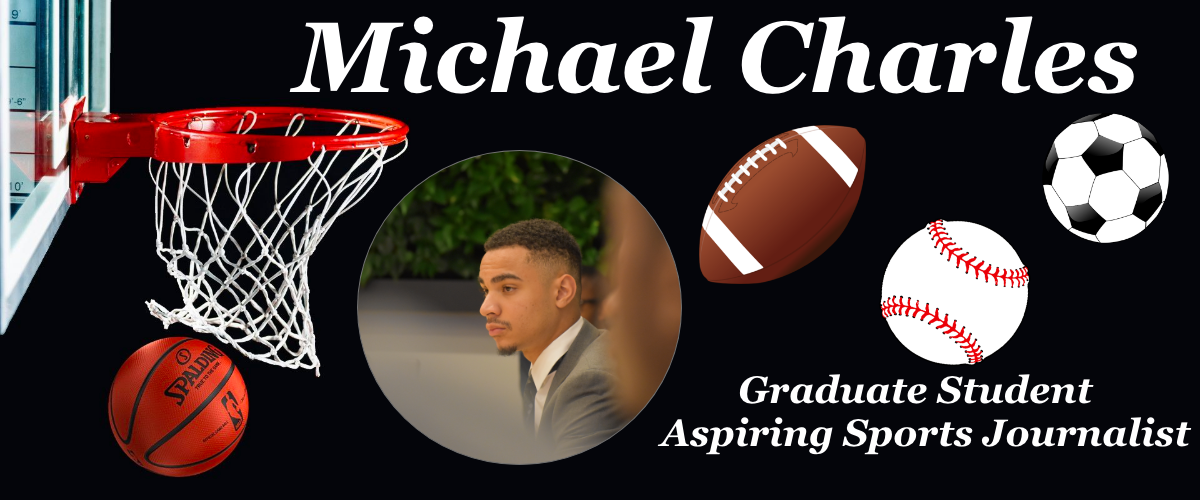
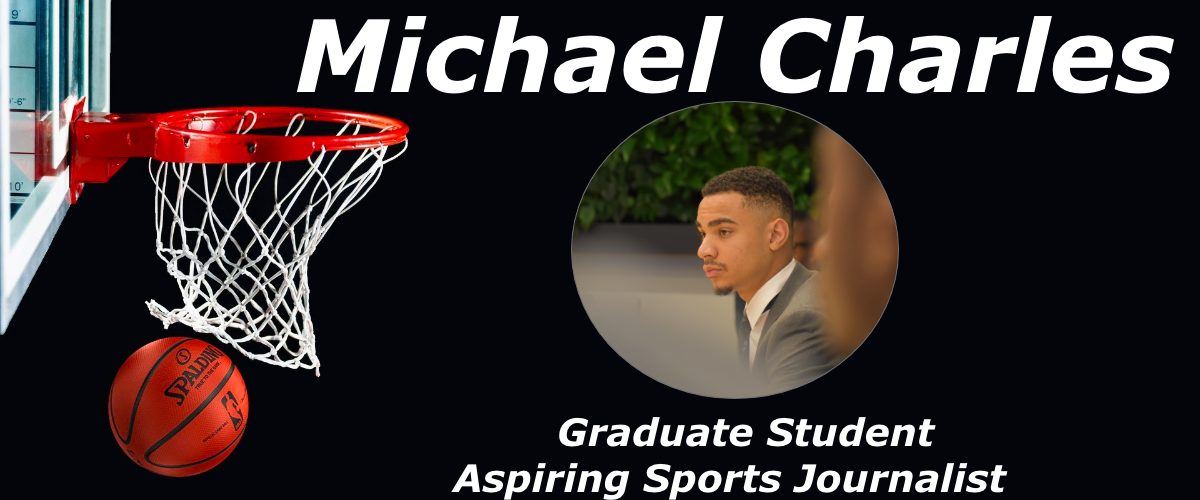
project

diff --git a/resume-project/michael-charles-resume.html b/resume-project/michael-charles-resume.html
@@ -27,7 +27,7 @@
     <!-- Navbar start-->
 <nav class="navbar navbar-expand-lg navbar-light" style="background-color: #DBF9FC">
  <div class="container-fluid">
-   <a class="navbar-brand" href="#">Michael Charles</a>
+   <a class="navbar-brand" href="#about">Michael Charles</a>
    <button class="navbar-toggler" type="button" data-bs-toggle="collapse" data-bs-target="#navbarSupportedContent" aria-controls="navbarSupportedContent" aria-expanded="false" aria-label="Toggle navigation">
      <span class="navbar-toggler-icon"></span>
    </button>
@@ -58,13 +58,13 @@
 
     <!-- buttons-->
     <div id="top"class="row">
-      <div class="col-4">
+      <div class="col-md-4">
         <a href="mailto:mchar317@umd.edu"title="Email"><i class="btn-lg bi bi-envelope"></i></a>
       </div>
-      <div class="col-4">
+      <div class="col-md-4">
         <a href="https://twitter.com/MikeCharles317" class="twitter-follow-button" data-size="large" data-lang="en" data-show-count="false">Follow @MikeCharles317</a><script async src="https://platform.twitter.com/widgets.js" charset="utf-8"></script>
       </div>
-      <div class="col-4">
+      <div class="col-md-4">
         <a href="https://www.linkedin.com/in/michael-charles-b84943151/"title="LinkedIn"><i class="btn-lg bi bi-linkedin"></i></a>
       </div>
     </div>
@@ -76,14 +76,14 @@
 
 
   <div id="about"class="row">
-    <div class="col">
+    <div class="col-md">
             <h1>About Me</h1>
-            <p style="padding-bottom: 70px">I am a graduate student at the Philip Merrill School of Jouranalism at the University of Maryland. I hope to combine my passions for sports and writing into a career in sports media.</p>
+            <p style="padding-bottom: 70px">I am a graduate student at the Philip Merrill School of Jouranalism at the University of Maryland. My goal is to combine my passions for sports and writing into a career in sports media.</p>
 
     </div>
      <!-- Experience -->
      <div id="about"class="row">
-       <div class="col">
+       <div class="col-md">
                <h1><a id="ex">Experience</a></h1>
 
        </div>
@@ -93,35 +93,53 @@
                 <div class="col-md-3">
                         <h2>Writer</h2>
                         <h3>KnicksFanTV</h3>
-                        <h4>January 2021 – Present</h4>
+                        <h4>(January 2021 – Present)</h4>
                         <p style="padding-bottom: 70px">Write articles for a basketball website targeted to New York Knicks fans.</p>
-                          <img src="KFTV.png" alt="KFTV" height="150px" width="150px"><br><br><br>
+
                 </div>
 
 
                 <div class="col-md-3">
                   <h2>Scholar</h2>
                   <h3>Institute for Responsible Citizenship</h3>
-                  <h4>Summer 2019 and 2020</h4>
+                  <h4>(Summer 2019 and 2020)</h4>
                   <p style="padding-bottom: 70px">Attended advanced academic seminars, comprehensive leadership and professional development programs.</p>
-                  <img src="i4rc.jpeg" alt="i4rc" height="150px" width="150px"><br><br><br>
+
                 </div>
                 <div class="col-md-3">
                   <h2>Contest Operations Attendant</h2>
                   <h3>Bates College </h3>
-                  <h4>September 2018 – March 2020</h4>
+                  <h4>(September 2018 – March 2020)</h4>
                   <p style="padding-bottom: 70px">Organized and presented visuals on display board, played music at intervals during games, and handled scoreboard.</p>
-                  <img src="batesa.jpeg" alt="athletics" height="150x" width="200x"><br><br><br>
+
                 </div>
                 <div class="col-md-3">
                   <h2>Intern, Pipeline Team</h2>
                   <h3>Major League Baseball</h3>
-                  <h4>June 2021-August 2021 </h4>
+                  <h4>(June 2021-August 2021) </h4>
                   <p style="padding-bottom: 70px">Updating and managing multimedia, editing video highlights, and producing stories for the MLB Draft.</p>
-                  <img src="mlb.png" alt="mlb" height="150px" width="250px"><br><br><br>
+
                 </div>
 </div>
 <!-- Experience End -->
+<div class="row">
+
+        <div class="col-md-3">
+                  <img src="KFTV.png" alt="KFTV" height="150px" width="150px"><br><br><br>
+        </div>
+
+
+        <div class="col-md-3">
+          <img src="i4rc.jpeg" alt="i4rc" height="150px" width="150px"><br><br><br>
+        </div>
+        <div class="col-md-3">
+
+          <img src="batesa.jpeg" alt="athletics" height="150x" width="200x"><br><br><br>
+        </div>
+        <div class="col-md-3">
+          <img src="mlb.png" alt="mlb" height="150px" width="250px"><br><br><br>
+        </div>
+</div>
 
 
 
@@ -130,26 +148,25 @@
 </div>
 <!-- Education -->
 <div id="about"class="row">
-  <div class="col-4">
-        <img class="image"src="bates.jpeg" alt="Bates" height="275px" width="250px">
+  <div class="col-md-4">
+        <img class="image"src="bates.jpeg" alt="Bates" height="275px" width="250px" style="float:left;">
   </div>
-  <div class="col-4">
+  <div class="col-md-4">
           <h1><a id="edu">Education</a></h1>
           <ul>
-            <li>M.A., Journalism, University of Maryland, December 2022</li>
+            <li>M.A., Journalism, University of Maryland, May 2023</li>
             <li style="padding-bottom: 100px">B.A., Rhetoric, Bates College, May 2021</li>
           </ul>
   </div>
-  <div class="col-4">
-    <div class="col-4">
-          <img class="image"src="maryland.jpeg" alt="Maryland" height="250px" width="250px">
+    <div class="col-md-4">
+          <img class="image"src="maryland.jpeg" alt="Maryland" height="250px" width="250px" style="float:right;">
     </div>
 
 </div>
 <!-- Education End-->
 <!-- Skills -->
 <div id="about"class="row">
-  <div class="col">
+  <div class="col-md">
           <h1><a id="skills">Skills</a></h1>
           <ul>
             <li>Proficient with Technology</li>
@@ -164,7 +181,7 @@
 </div>
 <!-- Skills End-->
 <div id="about"class="row">
-  <div class="col">
+  <div class="col-md">
           <h1><a id="work">My Work</a></h1>
 
   </div>

diff --git a/resume-project/style.css b/resume-project/style.css
@@ -15,7 +15,7 @@ font-size: 1.75em;
 border-bottom: solid, 2px #00BFFF;
 }
 #section1{
-text-align: center
+text-align: left;
 }
 #about{
   text-align: center;
@@ -44,12 +44,26 @@ p{
 }
 h1{
   font-family: 'Montserrat', sans-serif;
+  font-style: italic;
+  font-weight: bolder;
+  color: #130A7B;
 }
 h2{
   font-family: 'Montserrat', sans-serif;
+  text-decoration: underline;
+  font-size: 20px;
 }
 h3{
   font-family: 'Montserrat', sans-serif;
+  font-size: 19px;
 }
 h4{
   font-family: 'Montserrat', sans-serif;
+  font-size: 14px;
+  font-weight: bold;
+}
+.card-title{
+  font-family: 'Montserrat', sans-serif;
+  font-weight: bold;
+  text-decoration: underline;
+}
